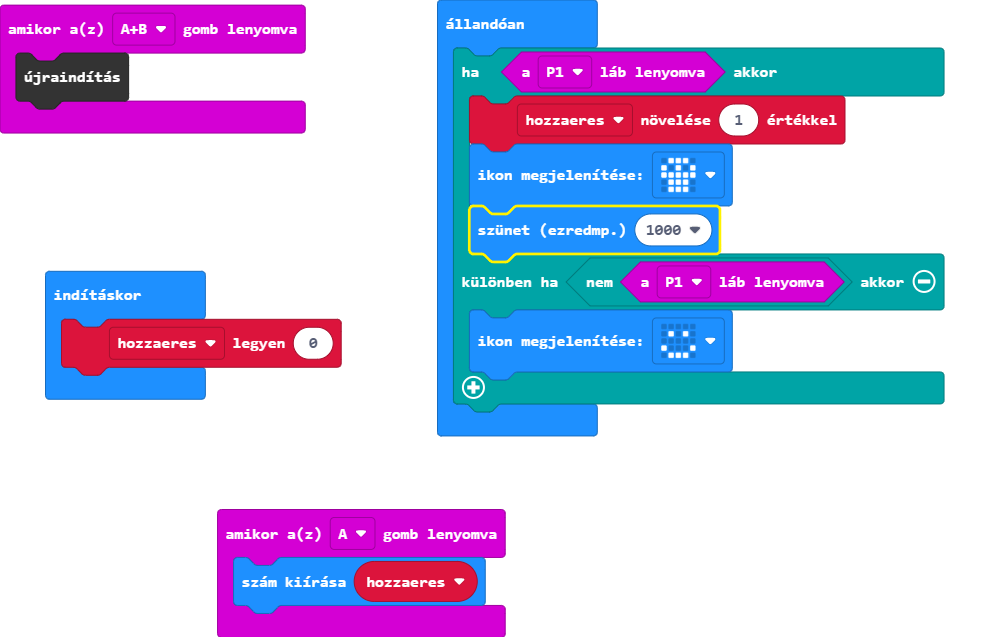
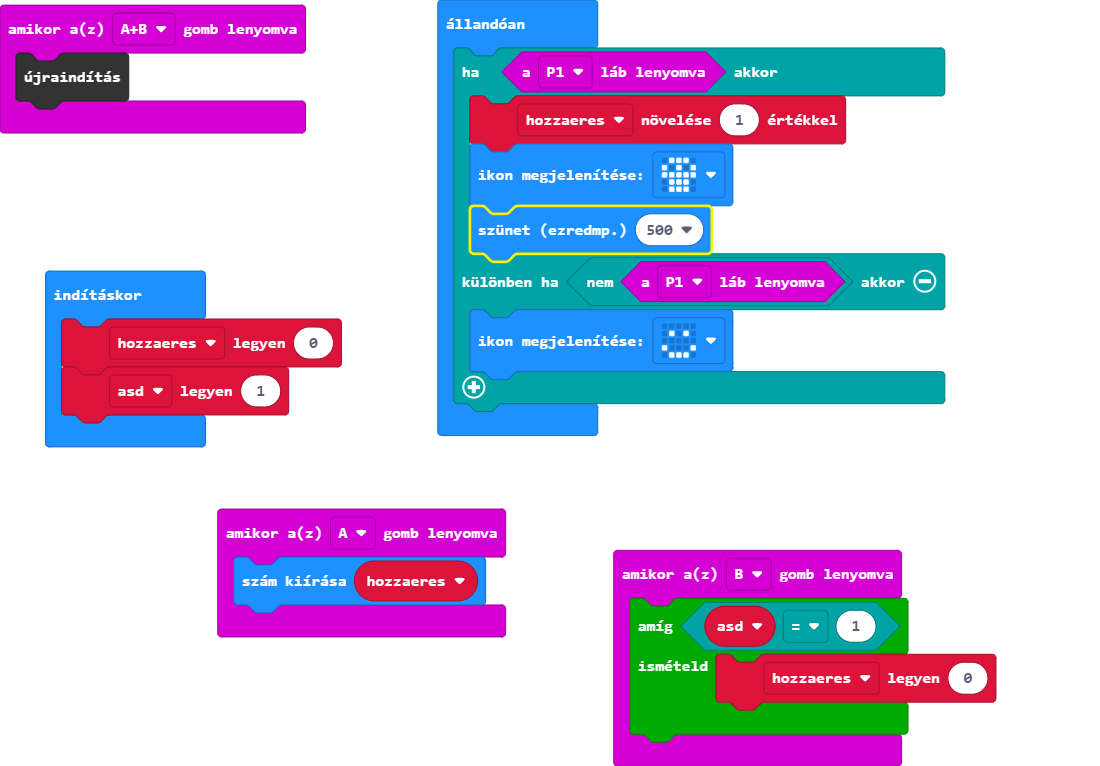
500ms

diff --git a/main.ts b/main.ts
@@ -4,13 +4,20 @@ input.onButtonPressed(Button.A, function () {
 input.onButtonPressed(Button.AB, function () {
     control.reset()
 })
+input.onButtonPressed(Button.B, function () {
+    while (asd == 1) {
+        hozzaeres = 0
+    }
+})
+let asd = 0
 let hozzaeres = 0
 hozzaeres = 0
+asd = 1
 basic.forever(function () {
     if (input.pinIsPressed(TouchPin.P1)) {
         hozzaeres += 1
         basic.showIcon(IconNames.Skull)
-        basic.pause(1000)
+        basic.pause(500)
     } else if (!(input.pinIsPressed(TouchPin.P1))) {
         basic.showIcon(IconNames.Happy)
     }
